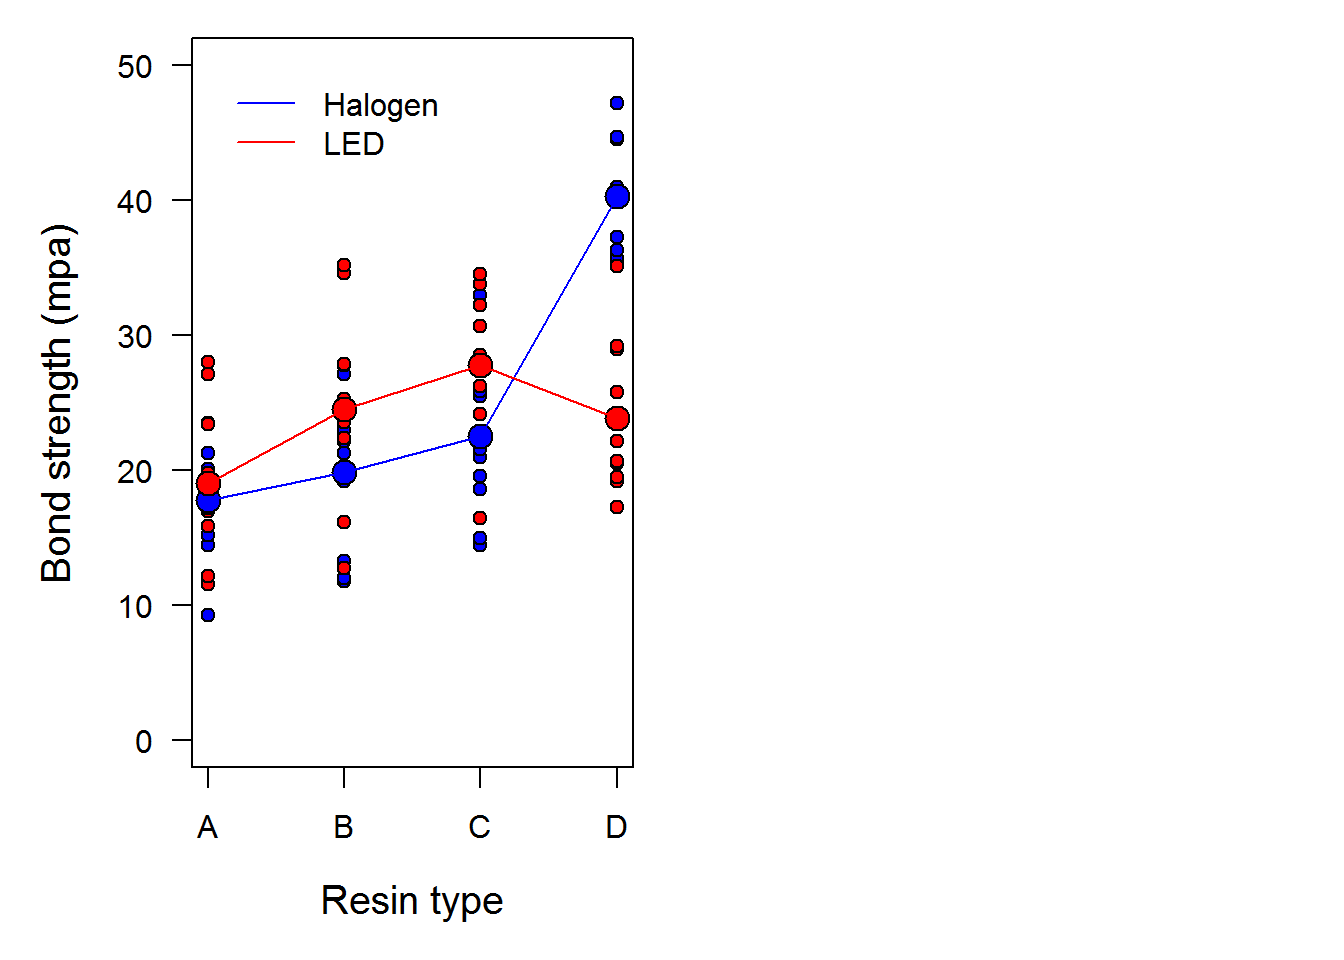
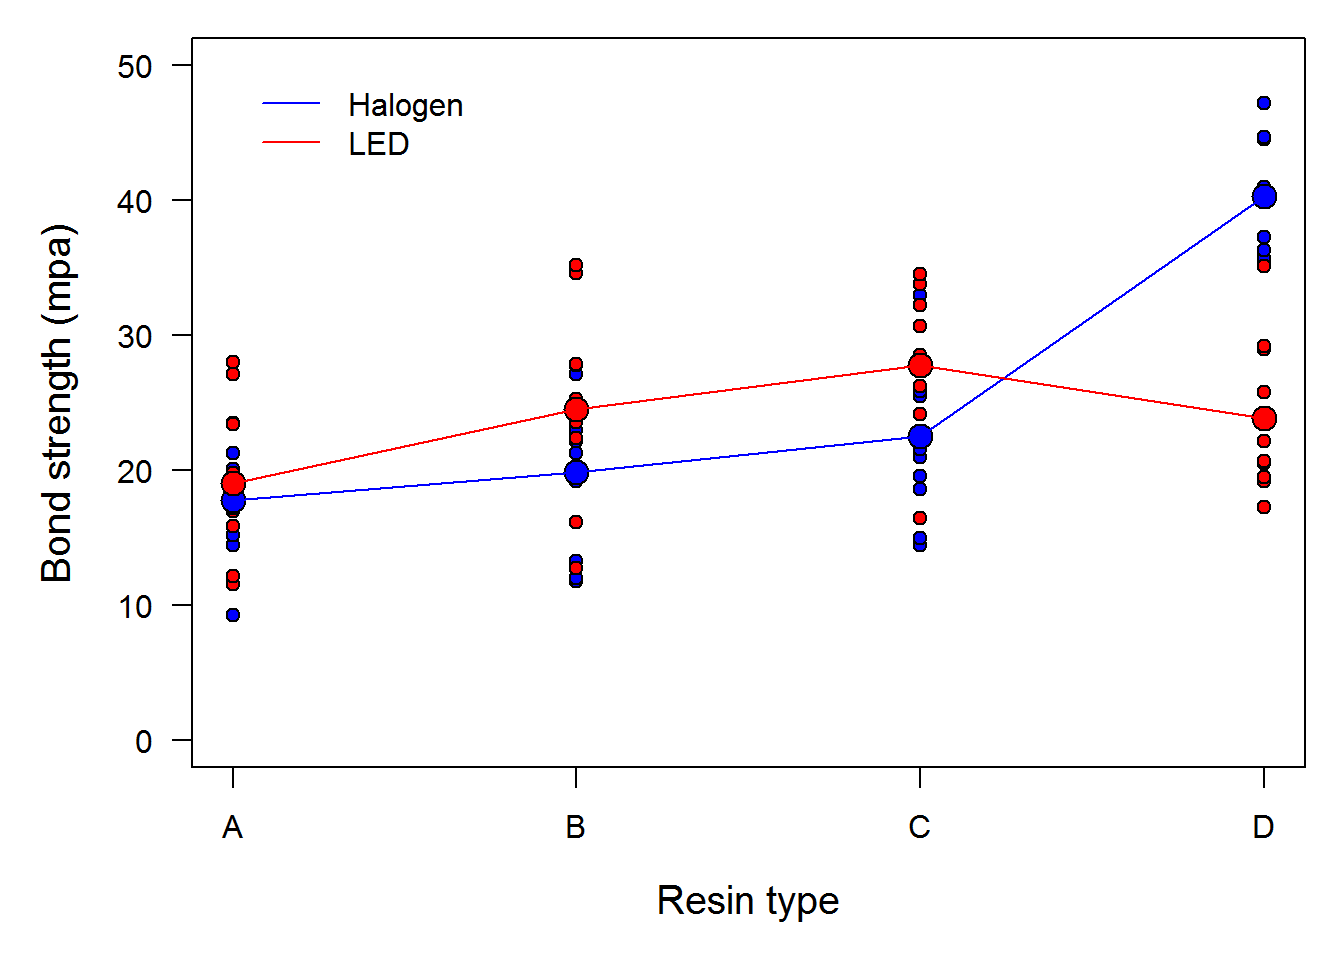
update lecture mods 4 & 5

diff --git a/stich/classes/BIOL678/05_diagnosticsAndEffects.html b/stich/classes/BIOL678/05_diagnosticsAndEffects.html
@@ -862,7 +862,7 @@ mus =<span class="st"> </span><span class="kw">ddply</span>(dental, <span class=
 resin=<span class="st"> </span><span class="kw">as.numeric</span>(dental<span class="op">$</span>resin)
 
 <span class="co"># Set graphical parameters</span>
-<span class="kw">par</span>(<span class="dt">mfrow=</span><span class="kw">c</span>(<span class="dv">1</span>,<span class="dv">2</span>), <span class="dt">mar=</span><span class="kw">c</span>(<span class="dv">5</span>,<span class="dv">5</span>,<span class="dv">1</span>,<span class="dv">1</span>))
+<span class="kw">par</span>(<span class="dt">mfrow=</span><span class="kw">c</span>(<span class="dv">1</span>,<span class="dv">1</span>), <span class="dt">mar=</span><span class="kw">c</span>(<span class="dv">5</span>,<span class="dv">5</span>,<span class="dv">1</span>,<span class="dv">1</span>))
 
 <span class="co"># Plot the raw data by resin type</span>
 <span class="co"># and color code for lights on the second</span>

diff --git a/stich/classes/BIOL678/04_linearModels.html b/stich/classes/BIOL678/04_linearModels.html
@@ -569,7 +569,7 @@ Kruskal<span class="op">-</span>Wallis chi<span class="op">-</span>squared =<spa
 <p><span class="math display">\[y = mx + b\]</span></p>
 <p>or more appropriately:</p>
 <p><span class="math display">\[Y_i = \beta_0 + \beta_i X_i\]</span></p>
-<p>We will discuss this and other ideas related to linear models in class. In most cases, though, we will be estimating a parameter for the intercept and one parameter for each eplanatory variable of interest.</p>
+<p>We will discuss this and other ideas related to linear models in class. For the casual reader, we are ignoring an important part of these statistical models for now. In most cases, though, we will be estimating a parameter for the intercept and one parameter for each explanatory variable of interest.</p>
 <blockquote>
 <p>Data!</p>
 </blockquote>
